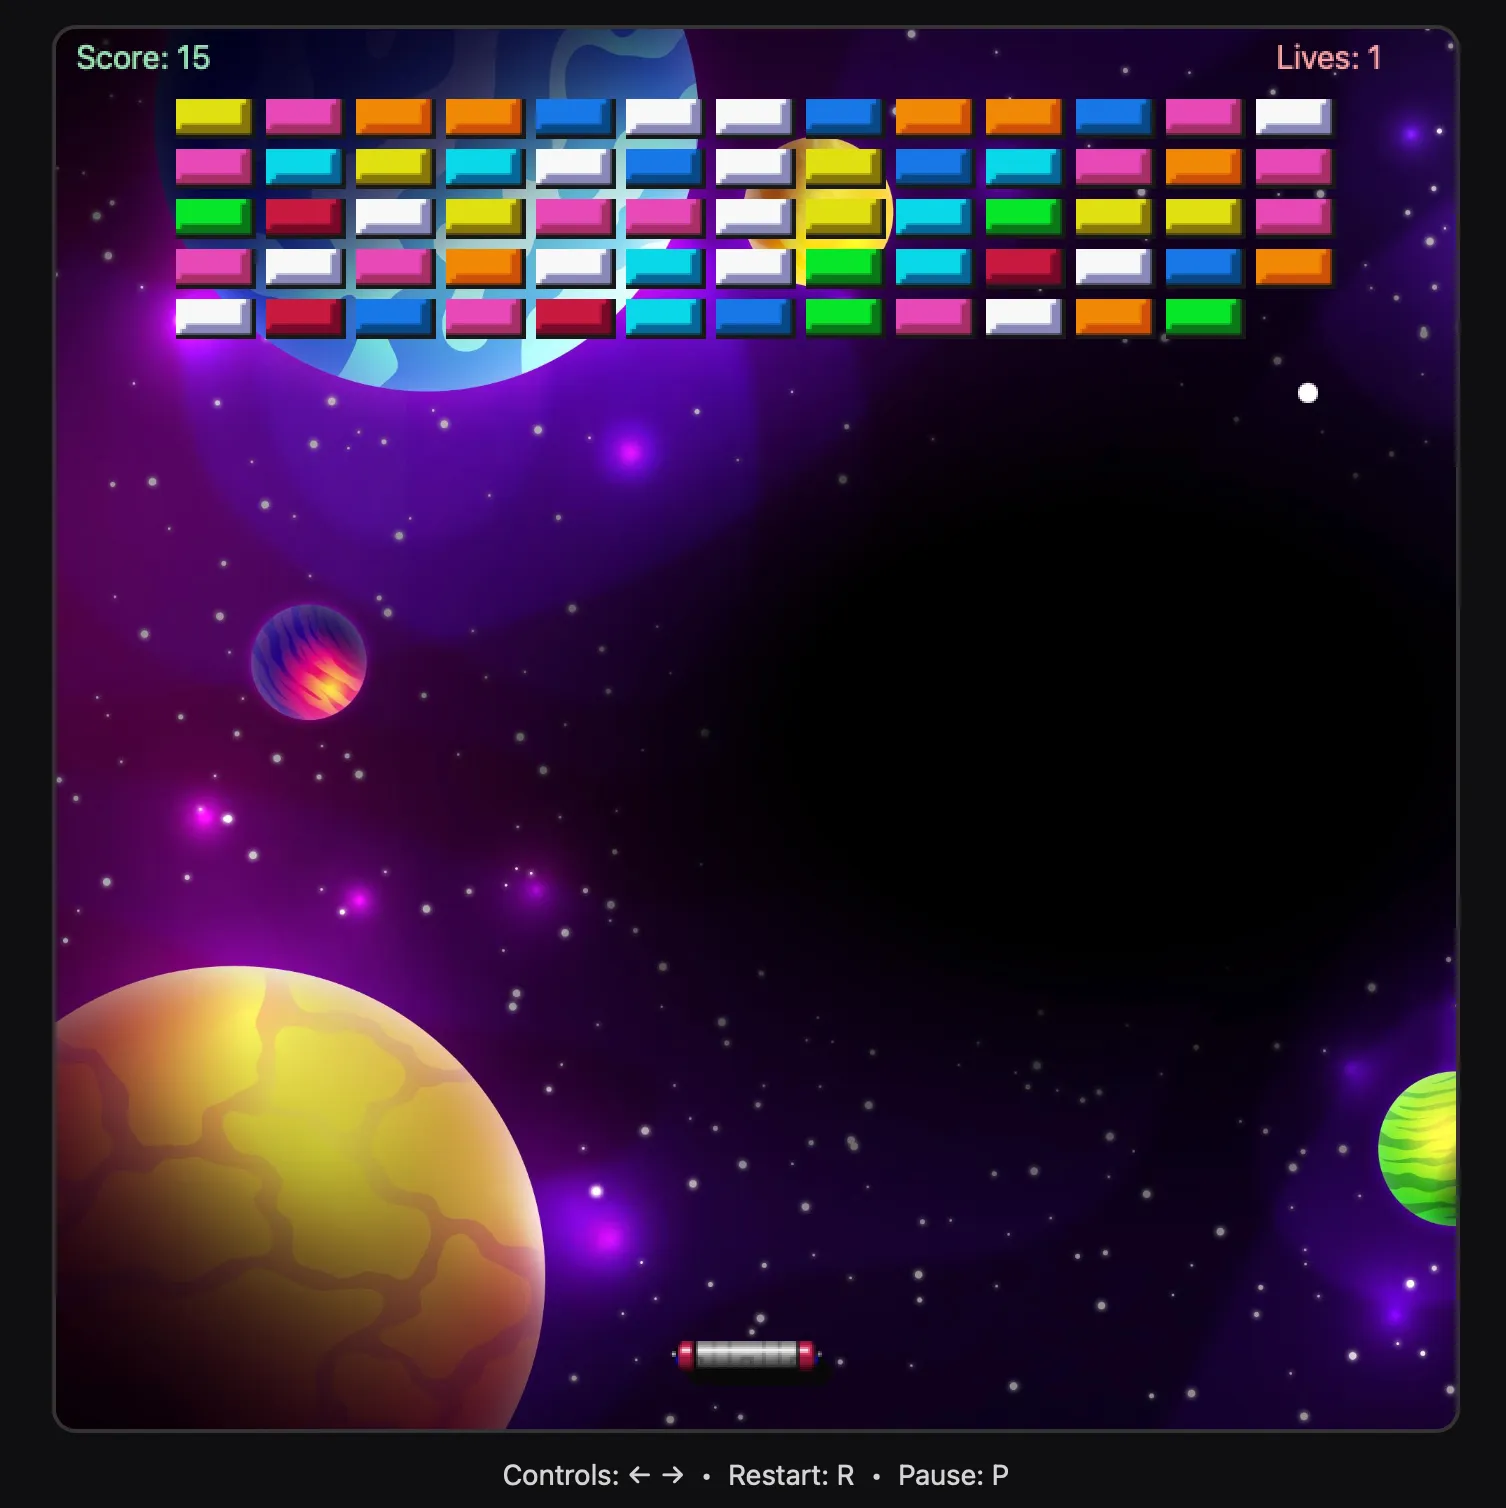
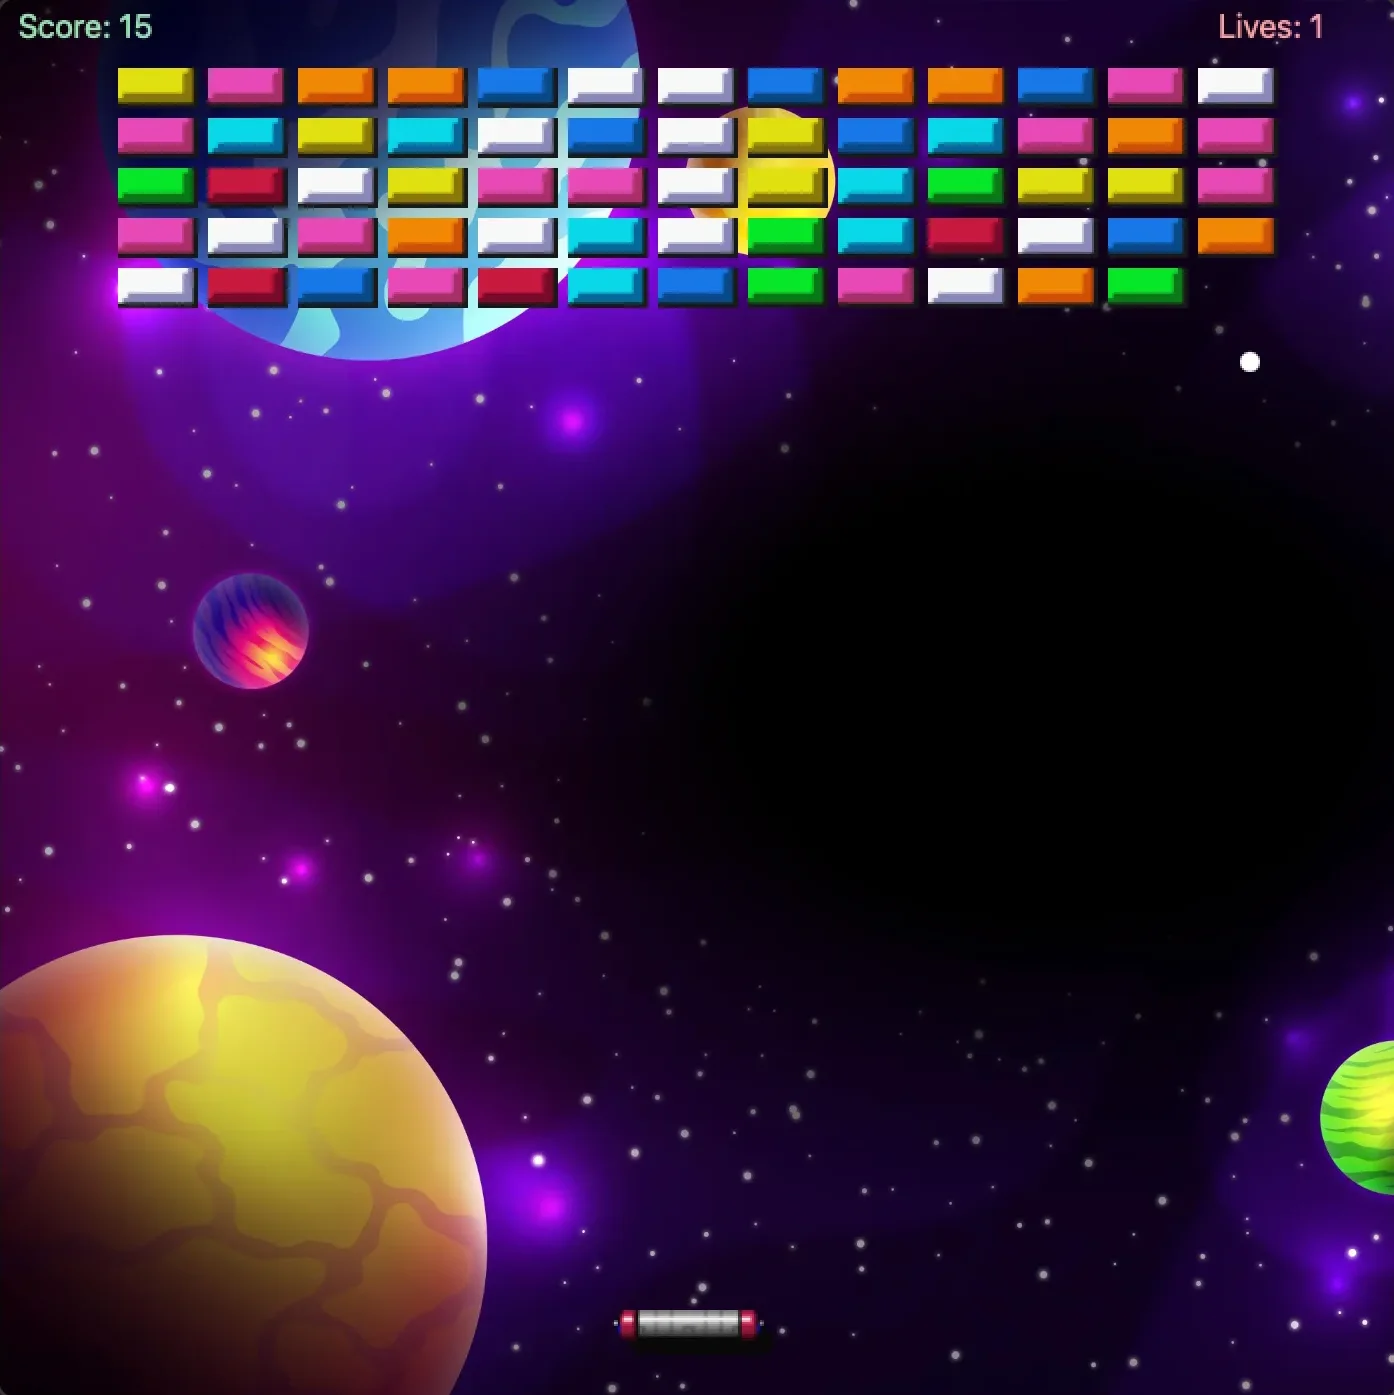
Crop ArkaScript screenshot and show its top

diff --git a/src/apps/ProjectsApp.tsx b/src/apps/ProjectsApp.tsx
@@ -79,6 +79,7 @@ export default function ProjectsApp() {
                       src={project.img}
                       alt={project.title}
                       loading="lazy"
+                      style={{ objectPosition: project.imgPosition }}
                       className="h-full w-full object-cover transition-transform duration-300 group-hover:scale-[1.04]"
                     />
                   </span>
@@ -115,7 +116,12 @@ function ProjectDetail({ project, onBack }: { project: Project; onBack: () => vo
       </button>
 
       <div className="overflow-hidden rounded-xl bg-white/10">
-        <img src={project.img} alt={project.title} className="max-h-72 w-full object-cover" />
+        <img
+          src={project.img}
+          alt={project.title}
+          style={{ objectPosition: project.imgPosition }}
+          className="max-h-72 w-full object-cover"
+        />
       </div>
 
       <div className="mt-4 flex flex-wrap items-start justify-between gap-3">

diff --git a/src/data/portfolio.ts b/src/data/portfolio.ts
@@ -36,6 +36,8 @@ export interface Project {
   title: string;
   type: ("frontend" | "backend")[];
   img: string;
+  /** CSS object-position for the screenshot when the important part is not centred */
+  imgPosition?: string;
   techs: Tech[];
   url?: string;
   repo: string;
@@ -113,6 +115,7 @@ export const projects: Project[] = [
     title: "ArkaScript",
     type: ["frontend"],
     img: arka,
+    imgPosition: "top",
     techs: [
       { name: "JavaScript", icon: "/js.png" },
       { name: "HTML", icon: "/html-1.svg" },
